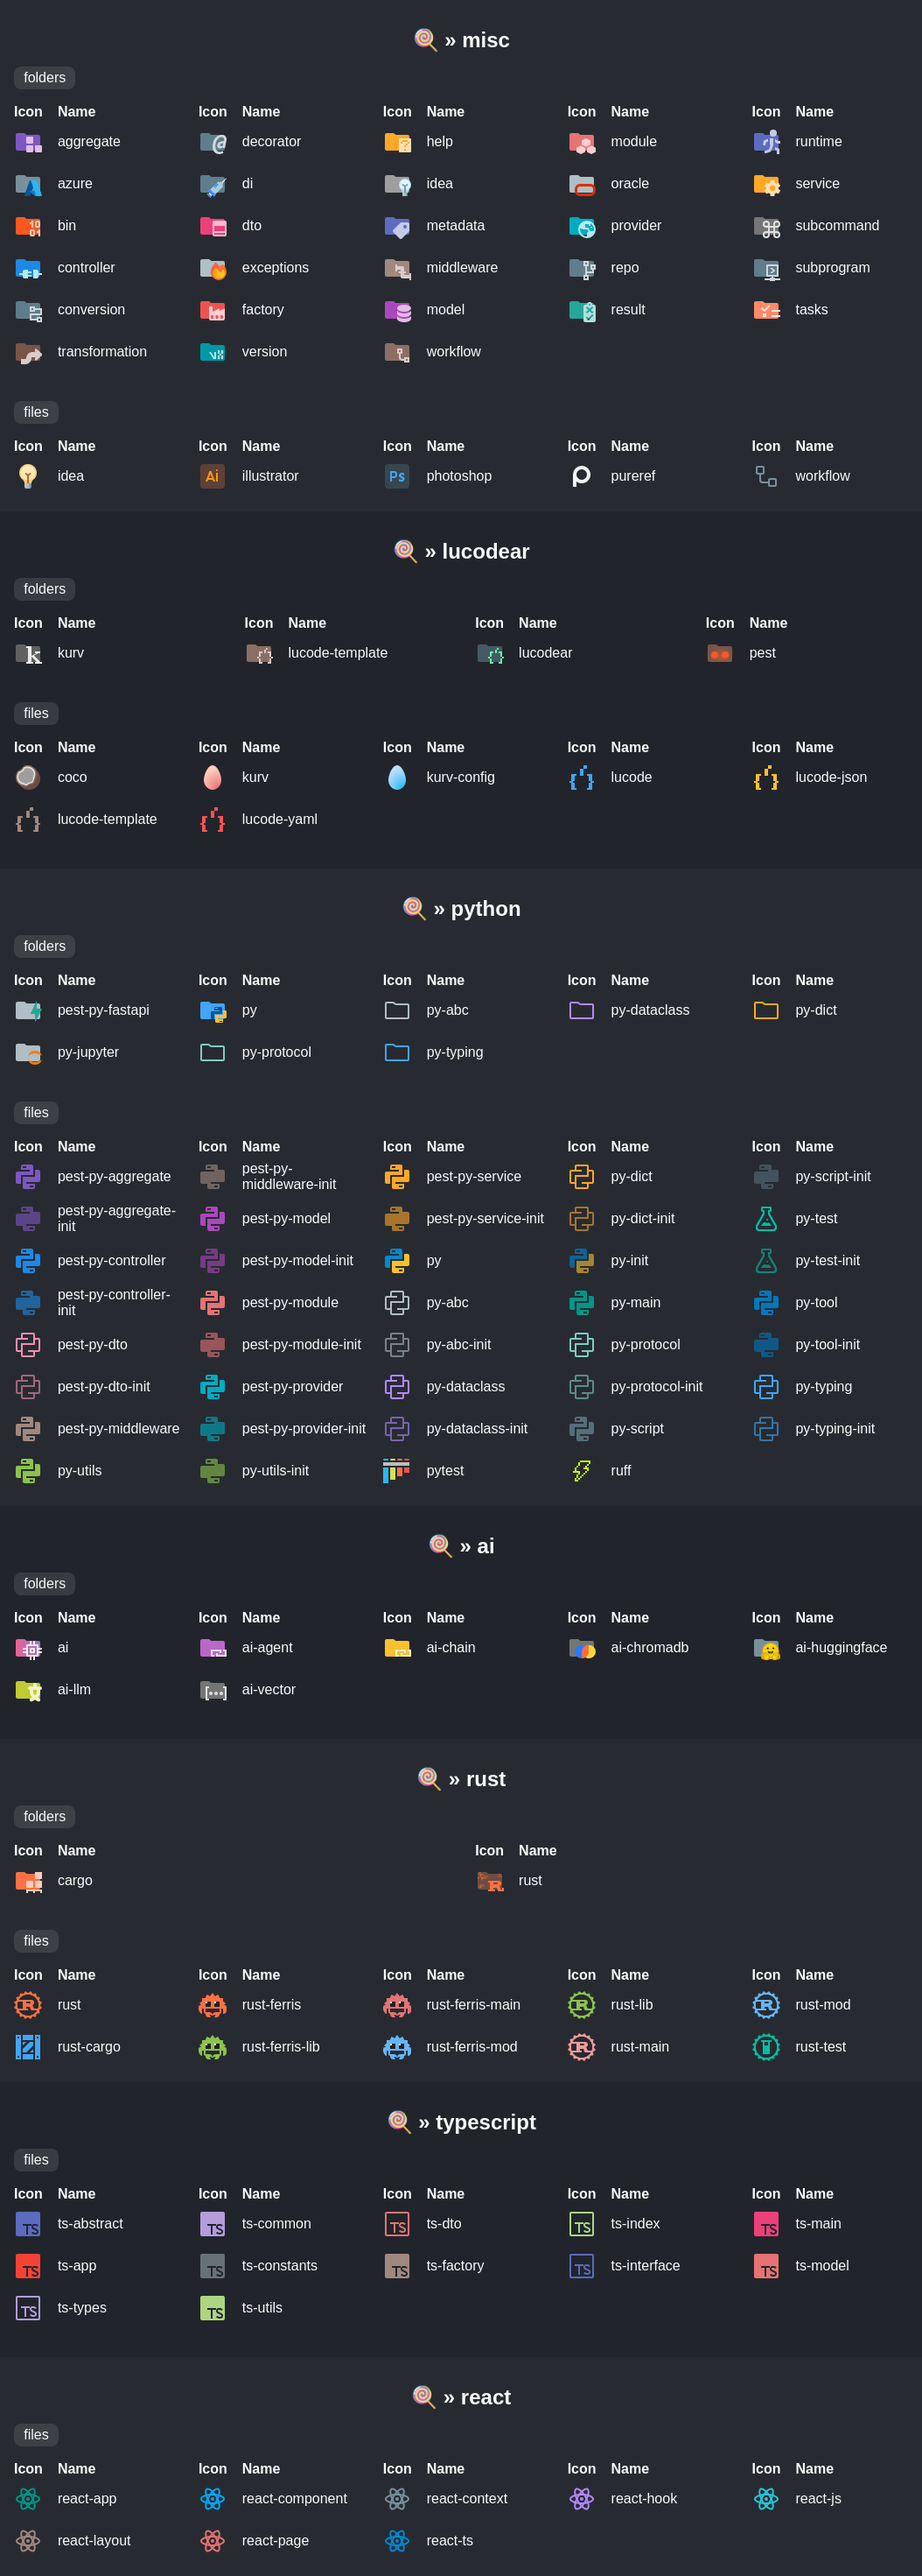
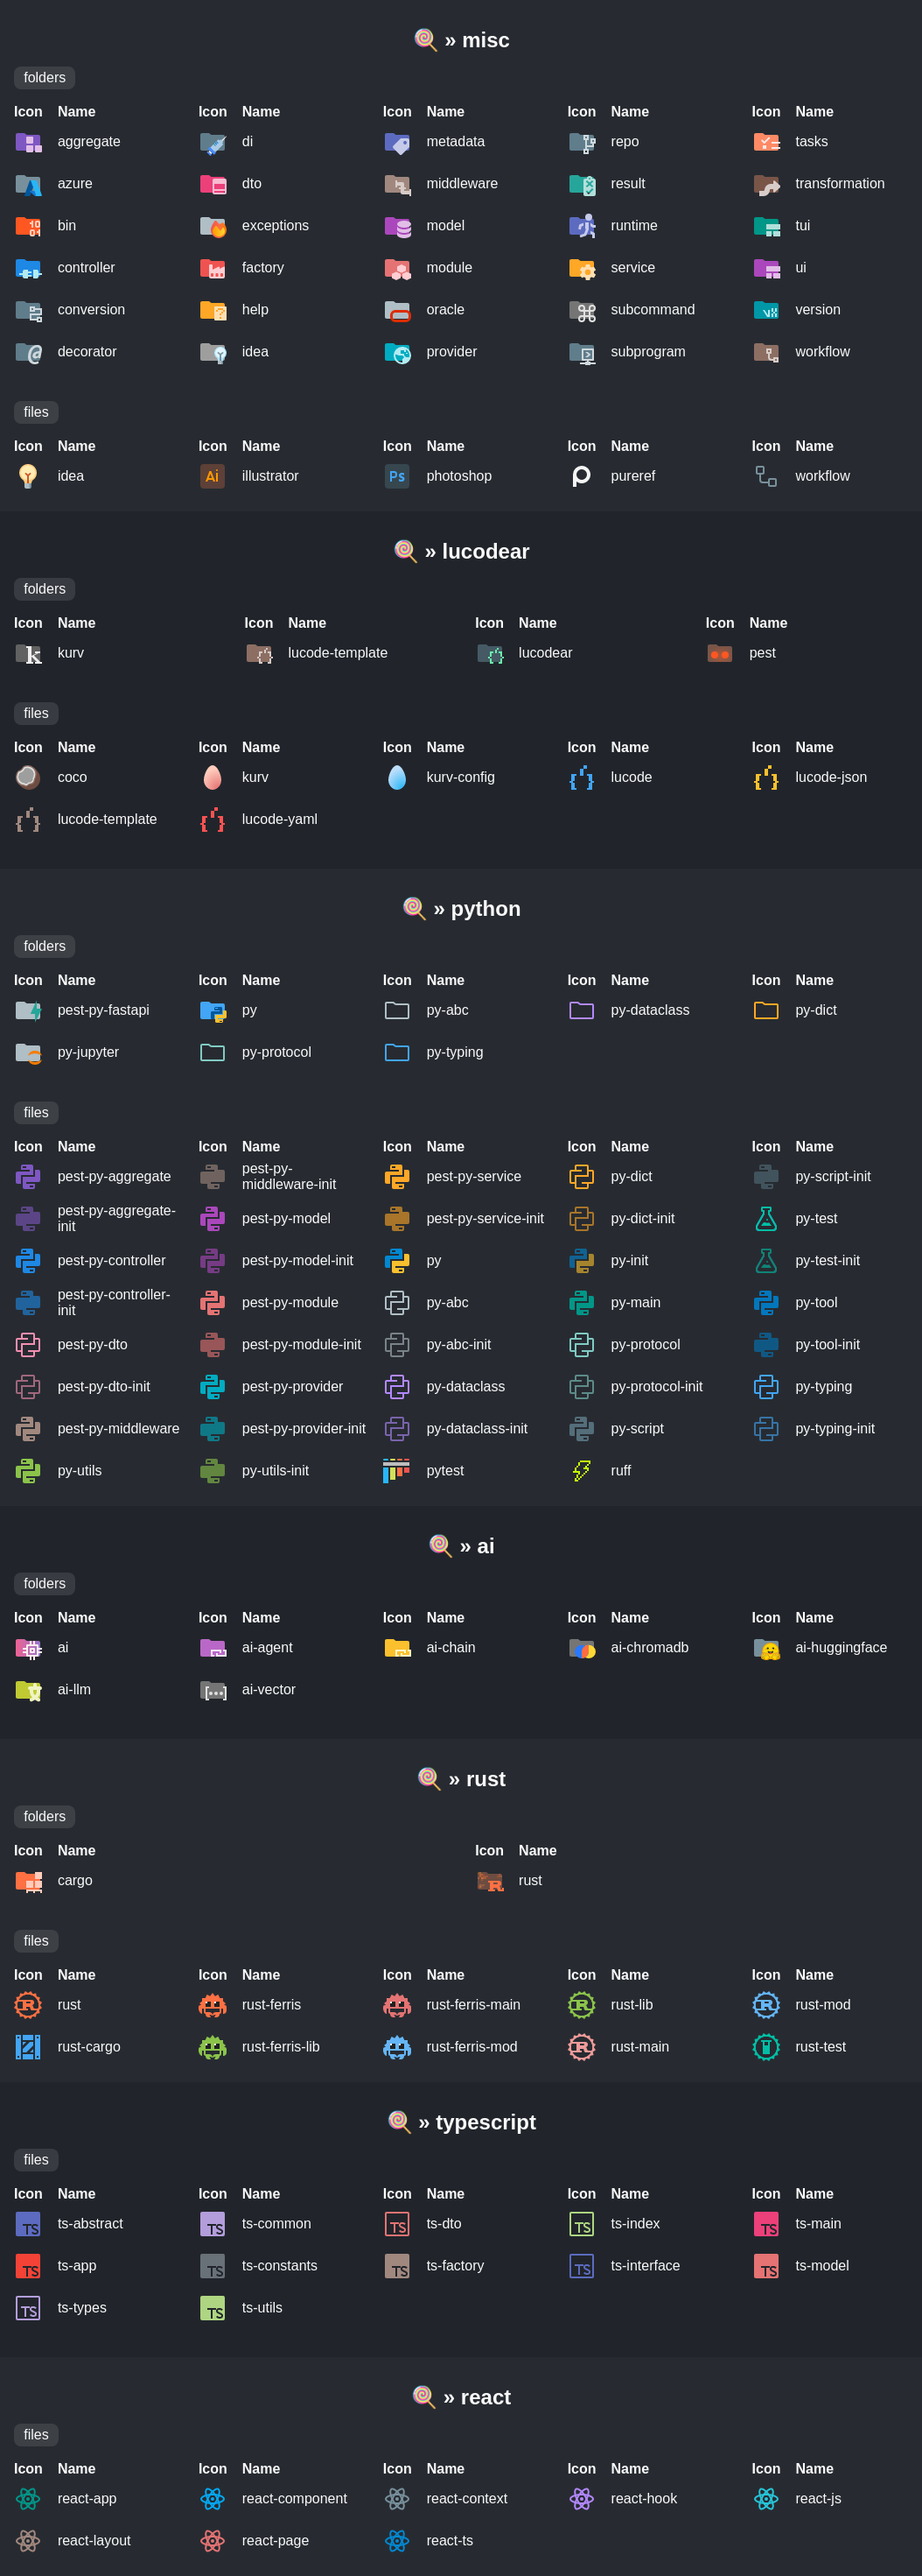
release: 🔖 v0.32.0

diff --git a/CHANGELOG.md b/CHANGELOG.md
@@ -3,10 +3,17 @@
  All notable changes to this project will be documented in this file. Dates are displayed in UTC.
 
  
+#### [v0.32.0](https://github.com/PKief/vscode-material-icon-theme/compare/v0.31.0...v0.32.0) 
+
+> March 8, 2024 
+
+- feat: ✨ ui and tui folder icons [`bf47a370`](https://github.com/PKief/vscode-material-icon-theme/commit/bf47a370)
+ 
 #### [v0.31.0](https://github.com/PKief/vscode-material-icon-theme/compare/v0.30.0...v0.31.0) 
 
 > March 4, 2024 
 
+- release: 🔖 v0.31.0 [`fb9ad64a`](https://github.com/PKief/vscode-material-icon-theme/commit/fb9ad64a)
 - feat: ✨ template folders and icons [`8315d5cd`](https://github.com/PKief/vscode-material-icon-theme/commit/8315d5cd)
 - feat: add commitlint .mjs extension support [`#2241`](https://github.com/PKief/vscode-material-icon-theme/pull/2241)
  
